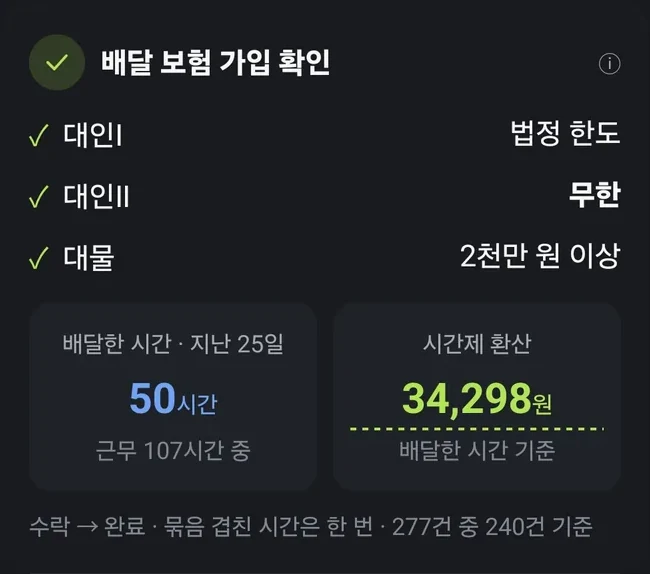
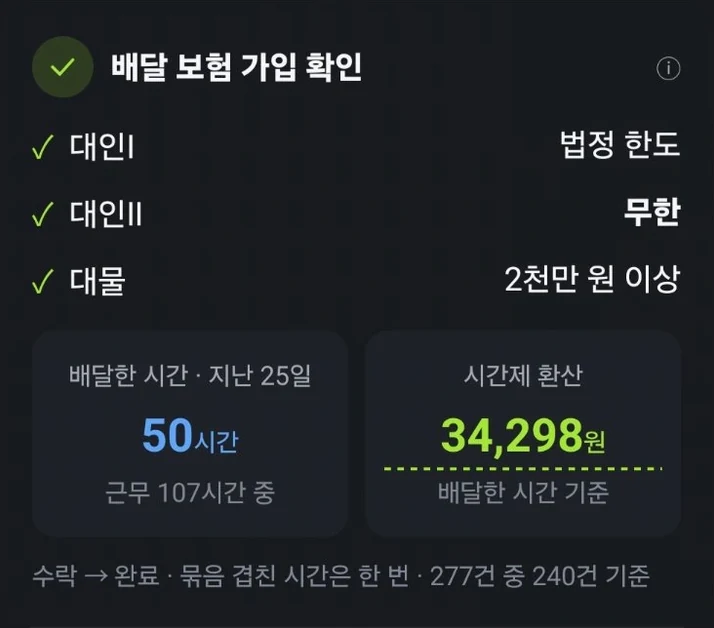
첫 화면: 콜 화면 중복 없앰 → 앱이 남긴 하루 카드(107,400원 · 7시간 9분 · 14,993원 · 20건 · 100.7km) · 「배달 하루 따라가 보기」 버튼 뺌 · 콜 대기 시간 설명(가장 오래 기다린 때) · 후면 카메라 장면 사진 + 「안내. 후면 카메라」 · 정비 · 보험을 설명 카드로 · 새 캡처
Claude-Session: https://claude.ai/code/session_01M5CjuQokG8jWYHpEw595dD

diff --git a/index.html b/index.html
@@ -41,6 +41,9 @@
 .hero .motto b{color:var(--t1)}
 .hero-shot{flex:1 1 280px;display:flex;justify-content:center}
 .hero-shot .phone{max-width:280px}
+.daycard{margin:0;width:100%;max-width:340px;display:flex;flex-direction:column;gap:12px;align-items:center}
+.daycard img{display:block;width:100%;height:auto;border-radius:24px;border:1px solid var(--lime-edge);box-shadow:0 0 0 6px rgba(163,230,53,.06),0 24px 48px rgba(0,0,0,.5)}
+.daycard figcaption{font-size:14px;color:var(--t2)}
 .row{display:flex;flex-wrap:wrap;gap:12px}
 
 /* 일곱 장면 길잡이 */
@@ -180,6 +183,8 @@
 .mini img.bleed.tight{margin-top:-12px}
 .minis.three{grid-template-columns:repeat(auto-fit,minmax(250px,1fr))}
 .stats-grid figure.card{overflow:hidden;gap:0}
+.stats-grid.four{grid-template-columns:repeat(2,minmax(0,1fr));max-width:880px}
+@media (max-width:640px){.stats-grid.four{grid-template-columns:minmax(0,1fr)}}
 .stats-grid figure.card img{border:0;border-radius:0}
 .stats-grid figure.card figcaption{padding:12px 16px 16px;border-top:1px solid var(--edge)}
 .memo-card .no{white-space:nowrap}
@@ -264,11 +269,11 @@
 <p class="lead" style="margin:0;max-width:30em">콜이 뜨면 시급을 소리로 알려 주고, 수입&nbsp;· 근무시간&nbsp;· 달린 길은 누르지 않아도 쌓입니다. 배달을 대신하는 앱이 아니라, 내가 한 일을 나에게 다시 볼 수 있도록 돌려주는 앱입니다.</p>
 <div class="btn-pair">
 <a class="btn btn-kakao" href="https://open.kakao.com/o/gvZXDbmi"><svg width="20" height="20" viewBox="0 0 24 24" fill="none" stroke="currentColor" stroke-width="2" stroke-linecap="round" stroke-linejoin="round" aria-hidden="true"><path d="M21 12a8 8 0 0 1-11.6 7.1L4 20l1.1-4.6A8 8 0 1 1 21 12z"></path></svg>커뮤니티에서 소식 받기</a>
-<a class="btn btn-line" href="#day">배달 하루 따라가 보기</a>
 </div>
 <p class="dim" style="margin:0;font-size:14px">안드로이드&nbsp;· 배민커넥트&nbsp;· 쿠팡이츠 배달 파트너 앱과 함께 씁니다</p>
 </div>
-<div class="hero-shot"><img class="phoneimg" src="g/h-call-coupang.webp" width="615" height="1222" alt="쿠팡이츠 콜 화면 위에 뜬 라이더HUD 카드 — 환산 시급 21,309원, 계산 18.8분 · 10P"></div>
+<div class="hero-shot"><figure class="daycard"><img src="g/h-day-card.webp" width="720" height="720" alt="하루 기록 카드 — 수입 107,400원, 근무 7시간 9분, 시급 14,993원, 20건, 주행 100.7km, 배민 97,260 · 쿠팡 10,140">
+<figcaption>앱이 저절로 남긴 하루&nbsp;· 실제 화면</figcaption></figure></div>
 </section>
 
 <section id="day" class="band"><div class="wrap sec">
@@ -378,7 +383,9 @@
 </div>
 <div class="minis">
 <article class="card mini"><h4>사진 찍을 때 주문번호 확인</h4><p>배달 완료 사진을 찍을 때 주문번호 끝 4자리를 읽어 줘요. 다른 집 앞에 두는 실수를 막습니다.</p></article>
-<article class="card mini"><h4>내가 저장한 후면 카메라 자리</h4><p>직접 저장한 후면 단속카메라 자리를 지나면 「안내. 후면 카메라」라고 음성으로 안내합니다.</p></article>
+<article class="card mini"><h4>내가 저장한 후면 카메라 자리</h4><p>직접 저장한 후면 단속카메라 자리를 지나면 「안내. 후면 카메라」라고 음성으로 안내합니다.</p>
+<div class="waitpic pic"><img src="g/h-rear-scene.webp" width="720" height="309" alt="도로 위 후면 단속 카메라와 「후면단속중」 표지" loading="lazy">
+<span class="voice"><svg width="18" height="18" viewBox="0 0 24 24" fill="none" stroke="#A3E635" stroke-width="2.2" stroke-linecap="round" stroke-linejoin="round" aria-hidden="true"><path d="M3 11v2a1 1 0 0 0 1 1h3l5 4V6L7 10H4a1 1 0 0 0-1 1z"></path><path d="M16 9a4 4 0 0 1 0 6M19 6a8 8 0 0 1 0 12"></path></svg>「안내. 후면 카메라」</span></div></article>
 </div>
 </section>
 
@@ -390,7 +397,7 @@
 <div class="minis">
 <article class="card mini"><h4>포인트&nbsp;· 미션</h4><p>배민 포인트가 2주 동안 얼마나 쌓였는지 한 줄로 봐요. 배달비서에는 다음 등급까지 남은 포인트도 나와요.</p>
 <img class="pic bleed" src="g/h-stats-points.webp" width="652" height="248" alt="배민 · 쿠팡 포인트 기간 누적" loading="lazy"></article>
-<article class="card mini"><h4>콜 기다린 시간</h4><p>배달을 마치고 다음 콜까지 기다린 시간도 따로 셉니다.</p>
+<article class="card mini"><h4>콜 기다린 시간</h4><p>배달을 마치고 다음 콜까지 기다린 시간을 시간대별로 세고, 가장 오래 기다린 때도 알려 줘요.</p>
 <img class="pic bleed" src="g/h-stats-wait.webp" width="652" height="327" alt="콜 대기 시간 — 시간대별 평균" loading="lazy"></article>
 </div>
 </section>
@@ -427,14 +434,18 @@
 <section id="s7" class="step">
 <div class="step-head"><span class="step-no"><b>07</b>돌아보기</span>
 <h3>내가 한 일이 보입니다</h3>
-<p>요일별&nbsp;· 시간대별&nbsp;· 거리별로 언제 잘 벌었는지, 묶음 배달이 정말 이득이었는지 내 기록으로 답해요. 정비&nbsp;· 보험도 함께 챙기고, 내 기록은 파일로 내보낼 수 있습니다.</p></div>
-<div class="stats-grid">
+<p>요일별&nbsp;· 시간대별&nbsp;· 거리별로 언제 잘 벌었는지, 묶음 배달이 정말 이득이었는지 내 기록으로 답해요. 오토바이 정비와 배달 보험도 함께 챙기고, 내 기록은 파일로 내보낼 수 있습니다.</p></div>
+<div class="stats-grid four">
 <figure class="card"><img src="g/h-stats-dist.webp" width="714" height="884" alt="거리별 시급 비교 — 1km 안 콜이 가장 높았어요" loading="lazy"><figcaption>거리별&nbsp;· 몇 km 콜이 좋았나</figcaption></figure>
 <figure class="card"><img src="g/h-stats-dow.webp" width="651" height="753" alt="요일 · 시간대 시급 비교" loading="lazy"><figcaption>요일 × 시간대&nbsp;· 언제 잘 벌었나</figcaption></figure>
 <figure class="card"><img src="g/h-stats-bundle.webp" width="652" height="479" alt="단건과 묶음 시급 비교" loading="lazy"><figcaption>단건 vs 묶음&nbsp;· 정말 이득이었나</figcaption></figure>
-<figure class="card"><img src="g/h-stats-maint.webp" width="652" height="565" alt="정비 — 엔진오일, 타이어, 브레이크 패드" loading="lazy"><figcaption>정비&nbsp;· 엔진오일&nbsp;· 타이어 주기</figcaption></figure>
-<figure class="card"><img src="g/h-stats-insure.webp" width="650" height="574" alt="배달 보험 가입 확인과 시간제 환산" loading="lazy"><figcaption>보험&nbsp;· 배달한 시간을 시간제로 환산</figcaption></figure>
 <figure class="card"><img src="g/h-backup.webp" width="651" height="357" alt="전체 백업 내보내기, 백업 가져오기, 근무 기록 내보내기" loading="lazy"><figcaption>백업&nbsp;· 근무 기록 내보내기</figcaption></figure>
+</div>
+<div class="minis">
+<article class="card mini"><h4>교체 주기를 km로</h4><p>엔진오일&nbsp;· 타이어&nbsp;· 브레이크 패드 교체 주기를 넣어 두면, 앱으로 달린 거리로 남은 km를 세어 줘요.</p>
+<img class="pic bleed" src="g/h-stats-maint.webp" width="714" height="814" alt="정비 — 엔진오일 13 / 2,000km 남은 1,987km, 타이어 · 브레이크 패드 · 구동 벨트 · 체인 주기 넣기, 항목 추가" loading="lazy"></article>
+<article class="card mini"><h4>배달 보험, 맞게 들었나</h4><p>내 보험이 대인 I·II, 대물을 갖췄는지 확인하고, 실제로 배달한 시간을 시간제 보험료로 바꿔 계산해 줘요. 지금 보험이 맞는지 견줄 수 있어요.</p>
+<img class="pic bleed" src="g/h-stats-insure.webp" width="714" height="628" alt="배달 보험 가입 확인 — 대인I 법정 한도, 대인II 무한, 대물 2천만 원 이상, 배달한 시간 50시간, 시간제 환산 34,298원" loading="lazy"></article>
 </div>
 </section>
 
